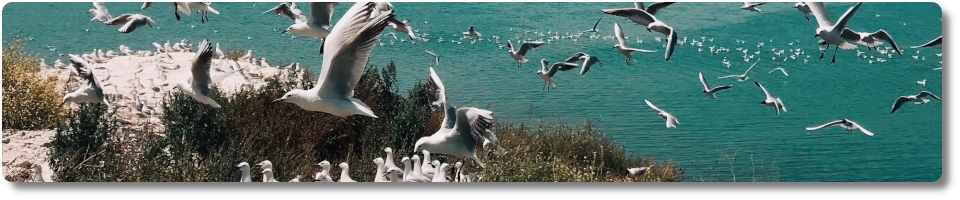
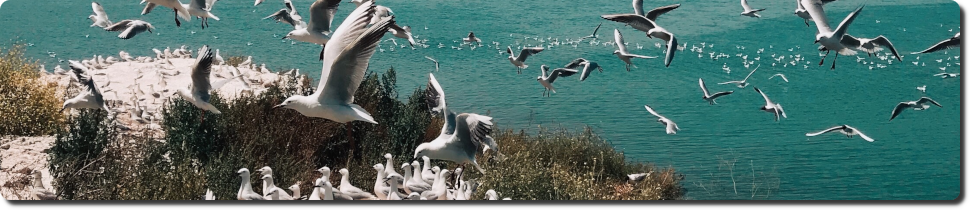
Updates README with new badges and stats
Hopefully the svg badges looks better.

diff --git a/README.md b/README.md
@@ -1,14 +1,14 @@
-![colony of seagulls near the sea]
+<img alt="colony of seagulls near the sea" width="95%" src="assets/seagulls.png">
 
 <p align="center">
     <a href="https://larus.se">
-        <img alt="Blog" src="assets/blog-badge.png">
+        <img alt="Blog" src="assets/blog-badge.svg">
     </a>
     <a href="https://github.com/lmas/lmas/discussions">
-        <img alt="Mail" src="assets/comment-badge.png">
+        <img alt="Mail" src="assets/comment-badge.svg">
     </a>
     <a href="mailto:hello@larus.se">
-        <img alt="Mail" src="assets/mail-badge.png">
+        <img alt="Mail" src="assets/mail-badge.svg">
     </a>
 </p>
 
@@ -17,12 +17,7 @@ Hello I'm **Alex**, I write open source software.
 I started studying Computer Science and Engineering at Luleå University of Technology in 2022, \
 but I've been programming as a hobbyist (in one way or another) since around 2002.
 
----
+<br>
+<img alt="github stats" width="55.5%" src="https://github-readme-stats.vercel.app/api?username=lmas&layout=compact&hide_border=true&theme=gruvbox&line_height=20">
 
-[![langs]](https://github.com/anuraghazra/github-readme-stats)
-
-[![stats]](https://github.com/DenverCoder1/github-readme-streak-stats)
-
-[colony of seagulls near the sea]: assets/seagulls.png
-[langs]: https://github-readme-stats.vercel.app/api/top-langs?username=lmas&layout=compact&hide_border=true&title_color=151515
-[stats]: https://github-readme-streak-stats.herokuapp.com/?user=lmas&hide_border=true
+<img alt="github top languages" width="39.5%" src="https://github-readme-stats.vercel.app/api/top-langs?username=lmas&layout=compact&hide_border=true&theme=gruvbox&line_height=62">
